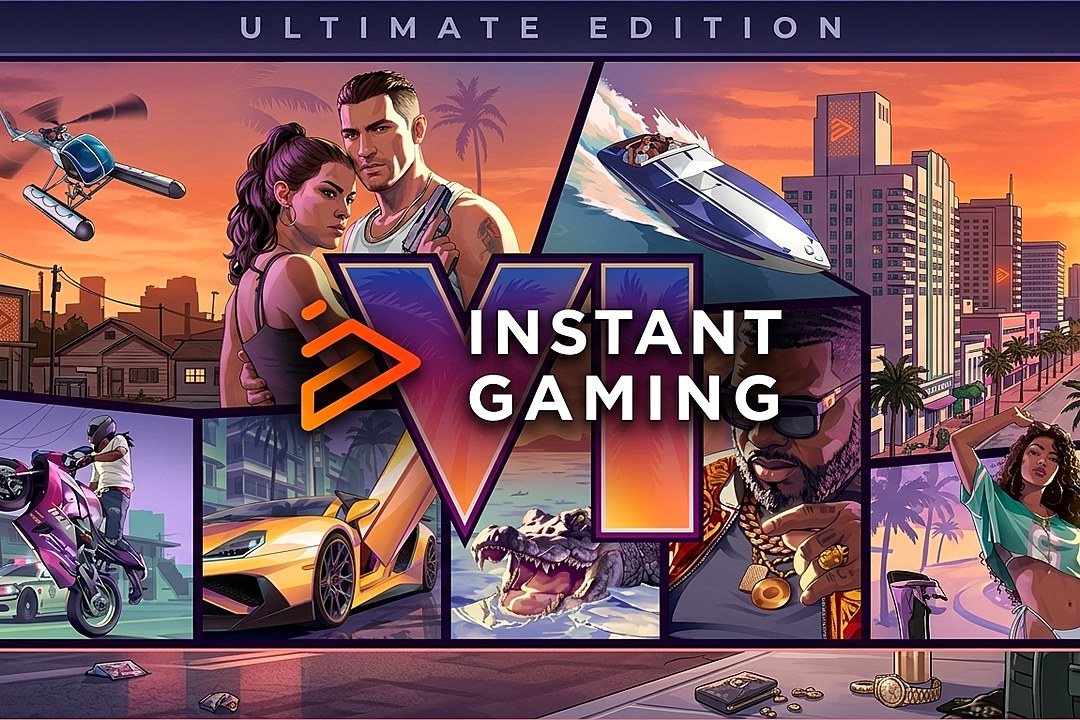
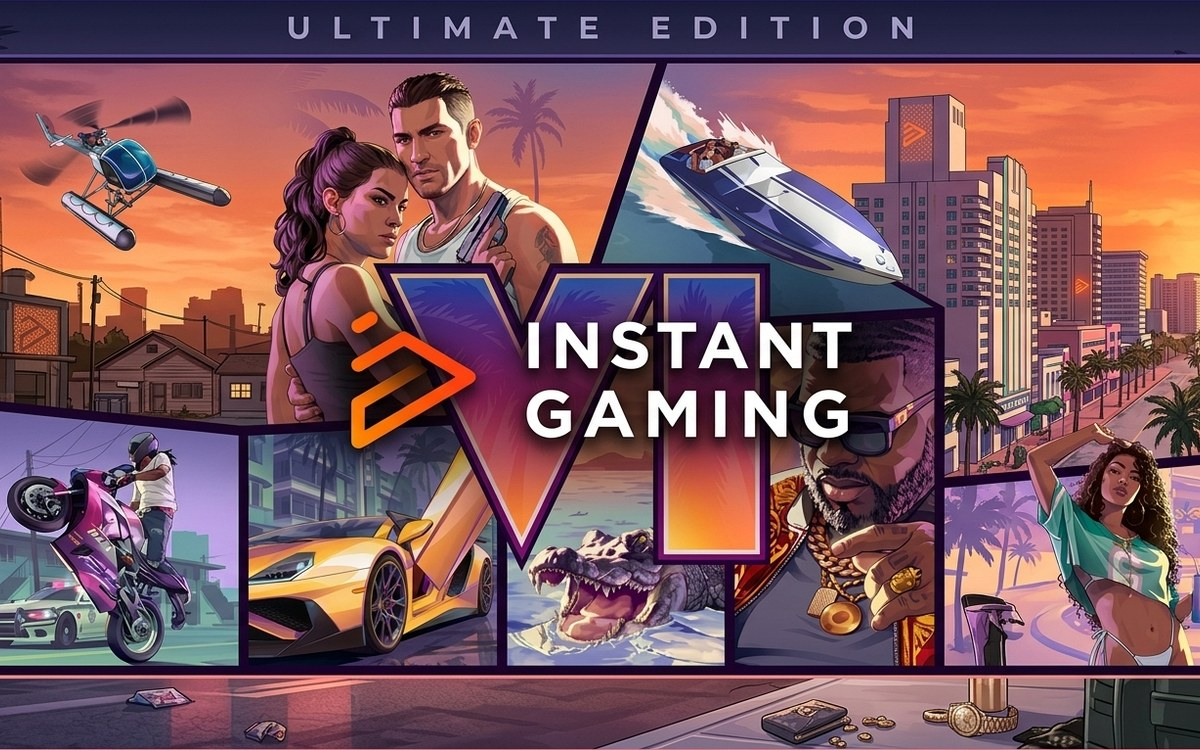
Add files via upload

diff --git a/style.css b/style.css
@@ -1320,6 +1320,7 @@ body.launch .count-dock{display:none !important}
 }
 
 
+
 /* ========== Instant Gaming affiliate band ========== */
 .ig-band{
   padding:2rem 0 2.25rem;
@@ -1337,6 +1338,8 @@ body.launch .count-dock{display:none !important}
 }
 .ig-card{
   display:block;
+  width:100%;
+  max-width:960px;
   border-radius:18px;
   overflow:hidden;
   text-decoration:none;
@@ -1348,54 +1351,54 @@ body.launch .count-dock{display:none !important}
     0 0 0 1px #ff9a3c22,
     inset 0 1px 0 #ffffff14;
   transition:transform .25s ease, box-shadow .25s ease, border-color .25s;
-  max-width:920px;
 }
 .ig-card:hover{
   transform:translateY(-3px);
   border-color:#ff9a3caa;
   box-shadow:
     0 22px 56px #00000077,
-    0 0 40px #ff4f8b33,
-    0 0 0 1px #19e3d244;
+    0 0 40px #ff4f8b33;
 }
 .ig-card-visual{
   position:relative;
-  aspect-ratio:20/9;
-  max-height:280px;
-  background:#000;
+  width:100%;
+  aspect-ratio:2 / 1;
+  background:#0a0610;
+  overflow:hidden;
 }
 @media(max-width:799px){
   .ig-card{max-width:100%}
-  .ig-card-visual{
-    aspect-ratio:16/10;
-    max-height:220px;
-  }
+  .ig-card-visual{aspect-ratio:16 / 10}
 }
-.ig-card-visual picture,
-.ig-card-bg{
-  position:absolute;inset:0;
-  width:100%;height:100%;
+.ig-card-visual picture{
+  position:absolute;
+  inset:0;
+  width:100%;
+  height:100%;
   display:block;
+  margin:0;
 }
 .ig-card-bg{
-  object-fit:cover;
-  object-position:center 40%;
+  position:absolute !important;
+  inset:0 !important;
+  width:100% !important;
+  height:100% !important;
+  max-width:none !important;
+  object-fit:cover !important;
+  object-position:center center !important;
+  display:block !important;
 }
 .ig-card-shade{
   position:absolute;inset:0;z-index:1;pointer-events:none;
-  background:
-    linear-gradient(180deg, transparent 35%, #00000099 100%),
-    linear-gradient(90deg, #00000044 0%, transparent 40%);
+  background:linear-gradient(180deg, transparent 45%, #00000088 100%);
 }
 .ig-card-glow{
   position:absolute;inset:0;z-index:1;pointer-events:none;
-  box-shadow:inset 0 0 60px #ff4f8b18, inset 0 0 120px #19e3d210;
-  opacity:.9;
+  box-shadow:inset 0 0 60px #ff4f8b14;
 }
 .ig-card-cta-wrap{
   position:absolute;z-index:2;
   right:1rem;bottom:1rem;
-  left:auto;
 }
 @media(max-width:799px){
   .ig-card-cta-wrap{right:.75rem;bottom:.75rem}
@@ -1421,8 +1424,7 @@ body.launch .count-dock{display:none !important}
   box-shadow:
     0 0 32px #ff4f8bcc,
     0 0 64px #19e3d266,
-    0 10px 24px #00000099,
-    inset 0 1px 0 #ffffff88;
+    0 10px 24px #00000099;
 }
 @keyframes igPulse{
   0%,100%{filter:brightness(1)}
